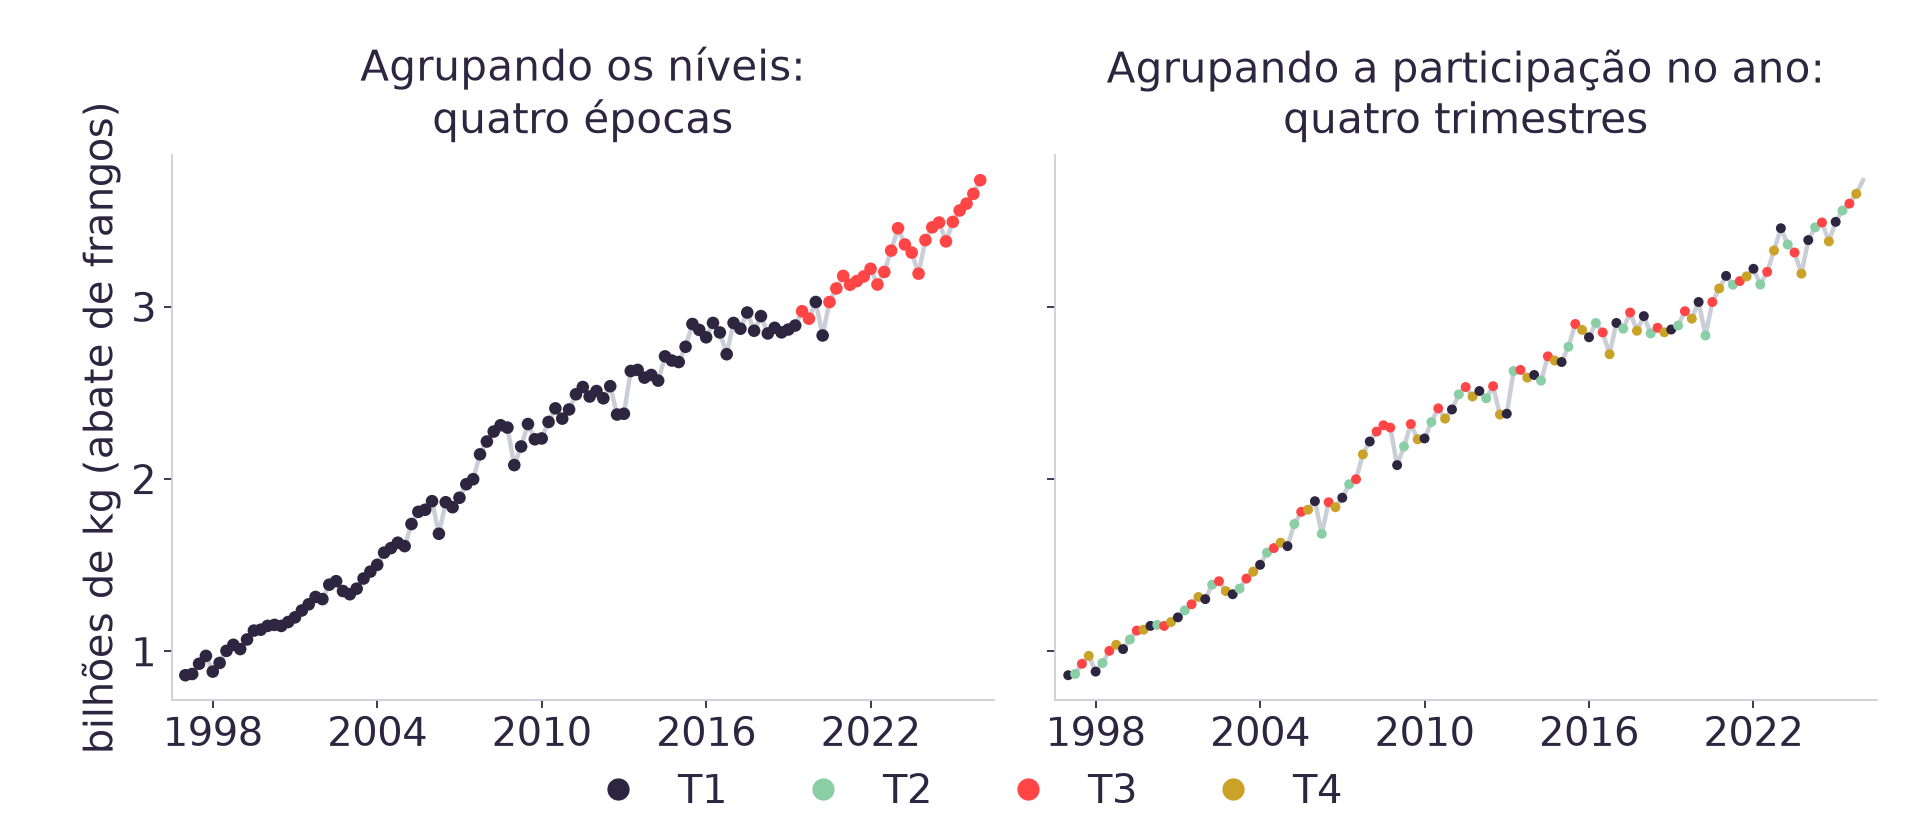
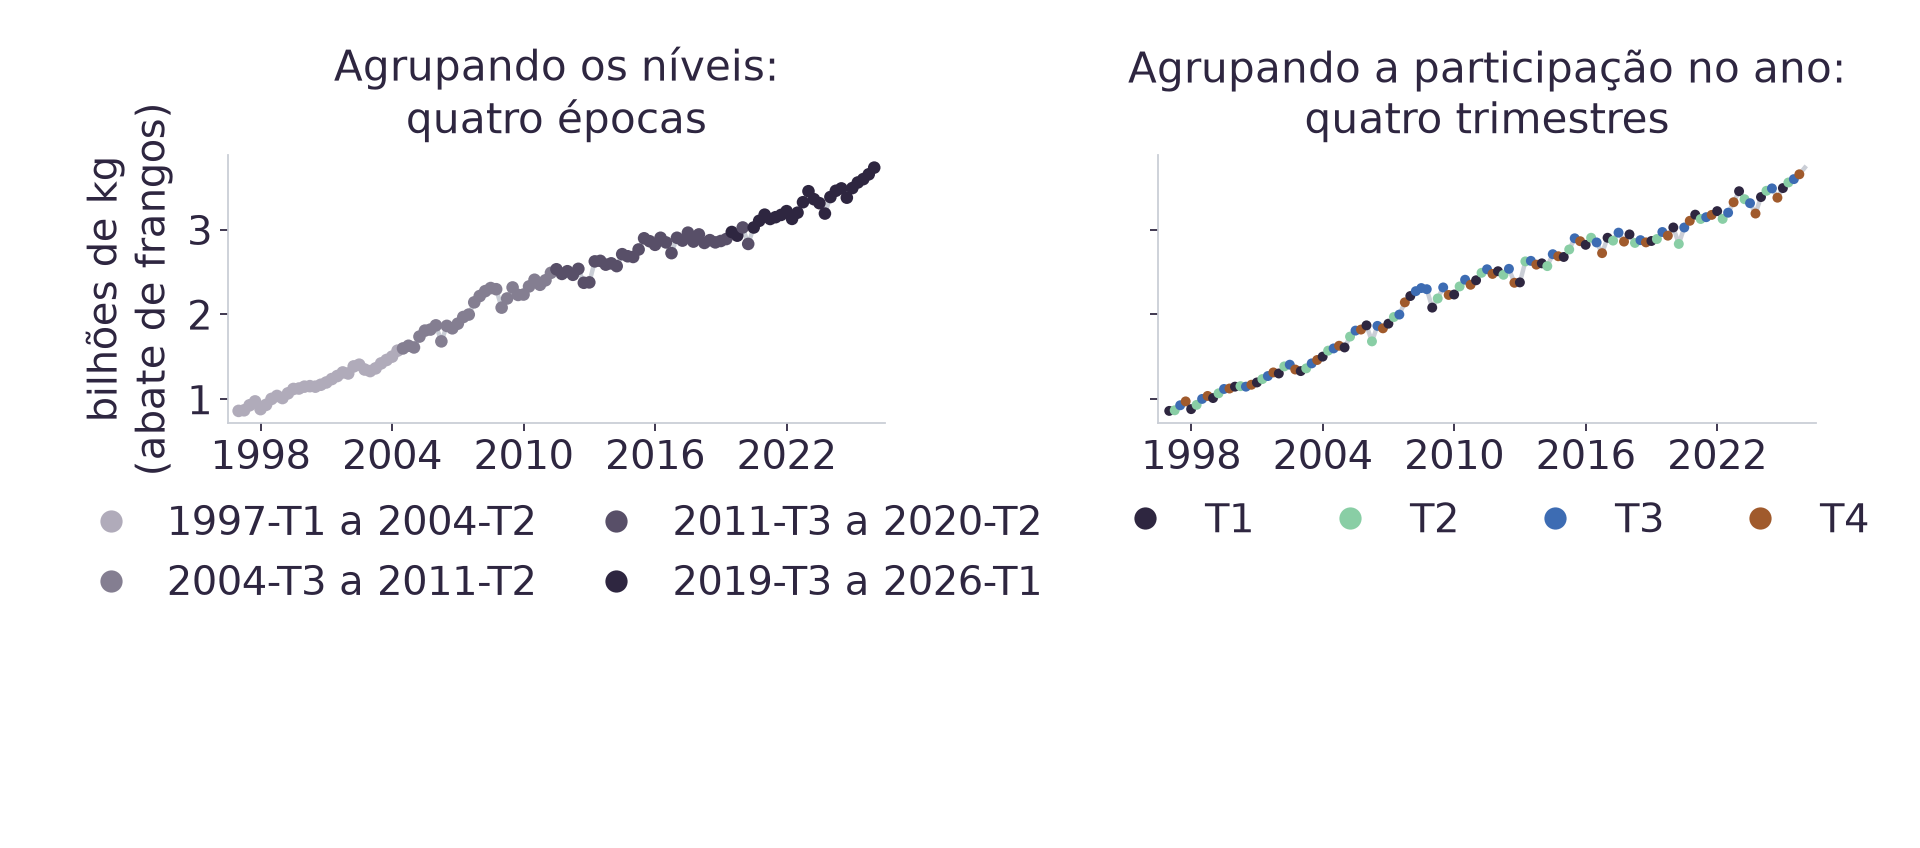
fix(aula06): corrige codificacao visual das figuras (fix round 1/5)
Painel esquerdo da Figura 1 passa a colorir os clusters do ato 1 por
ordem temporal (rampa sequencial de roxo) em vez do trimestre
majoritario: o ato 1 nao recupera o trimestre (26,5% de concordancia),
entao rotular seus clusters como T1-T4 contradizia o proprio achado da
aula. Os dois paineis agora tem legenda propria.

Figura 2 passa a plotar o desvio em relacao a 25% (pontos percentuais)
em vez do nivel bruto, o que faz a amplitude sazonal do leite (a maior
barra positiva e a maior negativa do grafico) e o achatamento do
frango aparecerem; antes, as cinco series ficavam visualmente
identicas entre 23% e 27%.

Paleta categorica dos quatro trimestres trocada para nao usar coral
como cor comum (T3 agora e azul, T4 terracota): coral fica reservado
so para o destaque da barra do T4 do leite nas duas figuras. Paletas
literais documentadas no cabecalho do modulo com a checagem de
contraste e de daltonismo do validador da skill dataviz, no mesmo
formato que tools/graficos_aula05.py ja usa.

diff --git a/tools/graficos_aula06.py b/tools/graficos_aula06.py
@@ -5,20 +5,34 @@ contraste entre agrupar niveis e agrupar participacao no ano:
 
 1. `aula06-epocas-vs-trimestres.png`. Dois paineis lado a lado sobre o mesmo
    eixo de tempo (1997-T1 a 2026-T1), com `abate_frangos` ao fundo em cinza
-   claro nos dois. No painel esquerdo, o ato 1: agrupar os niveis padronizados
-   das cinco series com K=4 devolve quatro epocas contiguas no tempo (silhueta
-   0,4795, concordancia de 26,5% com o trimestre do calendario, proxima do
-   acaso de 25%). No painel direito, o ato 2: agrupar a participacao de cada
-   trimestre no total do proprio ano, tambem com K=4, devolve o trimestre do
-   calendario (silhueta 0,2853, concordancia de 98,3%, com 2008-T2 e 2008-T4
-   como as duas excecoes). E a figura que sustenta o achado central da aula: a
-   silhueta premia o agrupamento menos util.
+   claro nos dois, cada um com a sua propria legenda porque os dois agrupam
+   coisas diferentes:
+   - Esquerda, o ato 1: agrupar os niveis padronizados das cinco series com
+     K=4 devolve quatro epocas contiguas no tempo (silhueta 0,4795,
+     concordancia de apenas 26,5% com o trimestre do calendario, proxima do
+     acaso de 25%). Os clusters do ato 1 NAO sao trimestres -- e o proprio
+     achado da aula --, entao a cor aqui nao pode usar rotulo T1 a T4: usa uma
+     rampa sequencial de roxo (claro para escuro, uma epoca por degrau) e uma
+     legenda com os quatro intervalos de tempo.
+   - Direita, o ato 2: agrupar a participacao de cada trimestre no total do
+     proprio ano, tambem com K=4, devolve o trimestre do calendario (silhueta
+     0,2853, concordancia de 98,3%, com 2008-T2 e 2008-T4 como as duas
+     excecoes). Aqui a cor E o trimestre, entao usa quatro matizes categoricas
+     com legenda T1 a T4.
+   E a figura que sustenta o achado central da aula: a silhueta premia o
+   agrupamento menos util. A escolha de rampa monocromatica a esquerda contra
+   matizes categoricas a direita tambem comunica sozinha que um agrupamento e
+   ordenado no tempo e o outro nao.
 
-2. `aula06-perfil-sazonal.png`. O perfil sazonal medio das cinco series (a
-   participacao media de cada trimestre no total do ano), em barras agrupadas.
-   Sustenta o achado complementar: leite tem pico no T4 enquanto as tres
-   carnes tem pico no T3, e a amplitude sazonal do leite (3,85 p.p.) e mais
-   que o triplo da do frango (1,10 p.p.).
+2. `aula06-perfil-sazonal.png`. O desvio da participacao media de cada
+   trimestre em relacao aos 25% que um trimestre sem sazonalidade nenhuma
+   teria, em pontos percentuais, por serie. Sustenta o achado complementar:
+   leite tem pico no T4 enquanto as tres carnes tem pico no T3, e a amplitude
+   sazonal do leite (3,85 p.p.) e mais que o triplo da do frango (1,10 p.p.).
+   Plotar o desvio em vez do nivel bruto (que fica todo entre 23% e 27%, com
+   as cinco series quase identicas a olho nu) e o que faz esse achado
+   aparecer: com o desvio, o leite passa a ter a barra mais alta e a mais
+   baixa do grafico, e o frango fica visivelmente achatado perto de zero.
 
 Decisoes de forma, herdadas de `tools/graficos_aula05.py`:
 
@@ -47,6 +61,45 @@ conectando os marcadores entre si: a serie cinza fornece o contexto de nivel,
 a cor do marcador fornece o cluster, e nenhuma linha grossa precisa percorrer
 116 trocas de cor. E o mesmo principio do painel esquerdo, so que com marcador
 menor, porque a troca de cor e mais frequente.
+
+Paletas usadas e a checagem de contraste/daltonismo, no mesmo formato que
+`tools/graficos_aula05.py` documenta para a paleta dele.
+
+Paleta categorica dos quatro trimestres (T1 a T4), usada no painel direito da
+Figura 1 e nos quatro grupos de barra da Figura 2: roxo #2e2640 (T1, a mesma
+tinta do resto do acervo), verde #89cea5 (T2, a mesma terceira serie da Aula
+05), azul #3d6cb3 (T3) e terracota #a05a2c (T4). Coral #ff4545 fica de fora
+dessa paleta de proposito: ele marca so a barra do T4 do leite na Figura 2,
+nunca uma categoria comum, porque usa-lo como uma entre quatro cores
+equivalentes faria a barra destacada colar visualmente na vizinha da mesma cor
+e o destaque desapareceria (foi exatamente o defeito da primeira versao desta
+figura, corrigido nesta rodada). Submetida ao validador de paletas categoricas
+da skill `dataviz` (`node scripts/validate_palette.js
+"#2e2640,#89cea5,#3d6cb3,#a05a2c" --mode light --surface "#ffffff" --pairs
+all`), a paleta separa bem sob daltonismo considerando TODOS os pares, nao so
+os adjacentes: o pior par mede dE 20,2 sob protanopia (acima do minimo de 8) e
+dE 22,7 sob visao normal (acima do minimo de 15). O validador tambem reprova
+dois testes pensados para paletas totalmente livres (faixa de luminosidade e
+piso de croma), porque #2e2640 e #89cea5 sao cores fixas do brandbook, nao
+escolhas livres desta figura -- a mesma reprovacao aconteceria com a paleta de
+tres cores ja publicada em `tools/graficos_aula05.py`, que usa as mesmas duas
+cores e nunca foi cobrada por isso. O aviso que sobra, esse sim real: #89cea5
+mede 1,84:1 de contraste contra o fundo branco, abaixo do minimo de 3:1 (o
+mesmo numero que a Aula 05 ja documentou para a mesma cor), e por isso nenhuma
+figura aqui depende so da cor do trimestre -- toda barra e todo marcador tem a
+identidade reforcada por rotulo direto (legenda T1 a T4, nome da serie no
+eixo, ou intervalo de datas).
+
+Rampa sequencial usada no painel esquerdo da Figura 1, uma unica matiz de roxo
+do claro ao escuro (`#b0abba, #847e91, #584f68, #2e2640`, essa ultima a mesma
+tinta oficial): passa nos quatro testes do validador em modo ordinal
+(`--ordinal`) -- luminosidade monotona, degrau minimo de 0,06 entre vizinhos,
+2,24:1 de contraste no degrau mais claro (acima do piso de 2:1) e variacao de
+matiz de so 4 graus. Por variar so em luminosidade dentro de uma unica matiz,
+essa rampa nao depende de discriminacao de cor para ser lida e e segura sob
+qualquer forma de daltonismo por construcao. E por isso que o painel esquerdo
+usa rampa e nao quatro matizes categoricas: a propria forma da paleta ja diz
+que ali o que importa e a ordem no tempo, nao a identidade de uma categoria.
 
 Uso: python3 tools/graficos_aula06.py   (requer matplotlib, pandas,
 numpy, scikit-learn)
@@ -79,13 +132,18 @@ ROTULO_SERIE = {
     "producao_leite": "produção de\nleite",
 }
 ALVO = "abate_frangos"
+I_LEITE = SERIES.index("producao_leite")
 K = 4
 SEMENTE = 42
 
-# paleta categorica dos quatro clusters, na ordem do trimestre majoritario
-# de cada um (1, 2, 3, 4). Reaproveita tinta, destaque e apoio da Aula 05 mais
-# um quarto tom (dourado) que nao colide com nenhum dos tres sob deuteranopia.
-COR_TRIMESTRE = {1: TINTA, 2: APOIO, 3: DESTAQUE, 4: "#c9a227"}
+# paleta categorica dos quatro trimestres do calendario (ato 2 e Figura 2).
+# Coral fica de fora de proposito: ver docstring do modulo.
+COR_TRIMESTRE = {1: TINTA, 2: APOIO, 3: "#3d6cb3", 4: "#a05a2c"}
+
+# rampa sequencial (claro -> escuro) para os quatro clusters do ato 1, que NAO
+# tem identidade de trimestre: a ordem e temporal, do cluster mais antigo ao
+# mais recente. Ver docstring do modulo para a validacao desta rampa.
+RAMPA_EPOCA = ["#b0abba", "#847e91", "#584f68", "#2e2640"]
 
 plt.rcParams.update({
     "font.size": 18,
@@ -117,14 +175,7 @@ def base_analitica():
 
 
 def kmeans_rotulos(matriz):
-    """Padroniza, agrupa com K=4 e devolve os rotulos alinhados ao trimestre.
-
-    Os rotulos brutos do KMeans nao tem ordem semantica (o cluster "0" pode
-    ser qualquer trimestre). Remapeia cada rotulo bruto para o trimestre do
-    calendario que domina esse cluster, so para dar cor consistente as duas
-    figuras: a metrica de concordancia usa a mesma regra de trimestre
-    majoritario, sem depender desse remapeamento.
-    """
+    """Padroniza e agrupa com K=4. Os rotulos brutos nao tem ordem semantica."""
     padronizada = StandardScaler().fit_transform(matriz)
     modelo = KMeans(n_clusters=K, n_init=50, random_state=SEMENTE).fit(padronizada)
     return modelo.labels_
@@ -140,12 +191,30 @@ def concordancia(rotulos, tris):
 
 
 def trimestre_majoritario(rotulos, tris):
-    """Mapa rotulo bruto -> trimestre do calendario que domina esse cluster."""
+    """Mapa rotulo bruto -> trimestre do calendario que domina esse cluster.
+
+    So faz sentido para o ato 2, onde a concordancia e alta (98,3%) e o
+    trimestre majoritario e de fato a identidade do cluster. Usar isso no ato
+    1 (concordancia de 26,5%, proxima do acaso) coloriria as epocas por ruido
+    e rotularia como trimestre algo que a aula prova que nao e.
+    """
     mapa = {}
     for c in set(rotulos):
         do_cluster = tris[rotulos == c]
         mapa[c] = max((1, 2, 3, 4), key=lambda t: (do_cluster == t).sum())
     return mapa
+
+
+def ordem_temporal(rotulos):
+    """Ordena os rotulos brutos do ato 1 pela posicao media no tempo.
+
+    O ato 1 agrupa NIVEIS de uma serie crescente: a posicao media de cada
+    cluster ao longo do eixo de tempo e o proprio criterio de ordem, da epoca
+    mais antiga para a mais recente. E o que da sentido a rampa sequencial:
+    o cluster de indice 0 aqui e sempre o mais antigo, nao um rotulo
+    arbitrario do KMeans.
+    """
+    return sorted(set(rotulos), key=lambda c: np.mean(np.where(rotulos == c)[0]))
 
 
 def participacao_no_ano(base):
@@ -167,14 +236,24 @@ def participacao_no_ano(base):
 
 
 def epocas_vs_trimestres(base, destino):
-    """Figura 1: dois paineis, ato 1 (niveis) contra ato 2 (participacao)."""
+    """Figura 1: dois paineis, ato 1 (niveis) contra ato 2 (participacao).
+
+    Os dois paineis tem legenda propria: o esquerdo agrupa epocas sem
+    identidade de trimestre (rampa sequencial + intervalos de tempo), o
+    direito agrupa trimestres de verdade (cores categoricas + T1 a T4).
+    """
     bi = 1e9
     x = np.arange(len(base["periodos"]))
     frangos = base["X"][:, SERIES.index(ALVO)] / bi
 
     rotulos1 = kmeans_rotulos(base["X"])
-    mapa1 = trimestre_majoritario(rotulos1, base["tris"])
-    cores1 = [COR_TRIMESTRE[mapa1[r]] for r in rotulos1]
+    ordem1 = ordem_temporal(rotulos1)
+    cor_por_cluster1 = {c: RAMPA_EPOCA[i] for i, c in enumerate(ordem1)}
+    cores1 = [cor_por_cluster1[r] for r in rotulos1]
+    intervalos1 = []
+    for c in ordem1:
+        idx = np.where(rotulos1 == c)[0]
+        intervalos1.append("%s a %s" % (base["periodos"][idx.min()], base["periodos"][idx.max()]))
 
     X2, anos2, tris2, periodos2 = participacao_no_ano(base)
     rotulos2 = kmeans_rotulos(X2)
@@ -182,7 +261,7 @@ def epocas_vs_trimestres(base, destino):
     idx2 = [base["periodos"].index(p) for p in periodos2]
     cores2 = [COR_TRIMESTRE[mapa2[r]] for r in rotulos2]
 
-    fig, (esq, dire) = plt.subplots(1, 2, figsize=(12, 5.2), sharey=True)
+    fig, (esq, dire) = plt.subplots(1, 2, figsize=(12, 5.3), sharey=True)
 
     for eixo in (esq, dire):
         eixo.plot(x, frangos, color=SUAVE, linewidth=2, zorder=1)
@@ -191,7 +270,7 @@ def epocas_vs_trimestres(base, destino):
 
     esq.scatter(x, frangos, c=cores1, s=32, zorder=2, linewidths=0)
     esq.set_title("Agrupando os níveis:\nquatro épocas", fontsize=19, pad=10)
-    esq.set_ylabel("bilhões de kg (abate de frangos)", fontsize=18)
+    esq.set_ylabel("bilhões de kg\n(abate de frangos)", fontsize=18)
 
     # marcadores pequenos sobre a serie em cinza claro: com 116 trocas de cor
     # em 29 anos, uma linha ou marcador grosso conectando os pontos vira
@@ -209,53 +288,68 @@ def epocas_vs_trimestres(base, destino):
         eixo.set_xticklabels([base["periodos"][i][:4] for i in rotulos_x], fontsize=18)
         eixo.set_xlim(-2, len(base["periodos"]) + 1)
 
-    manejadores = [plt.Line2D([0], [0], marker="o", linestyle="", markersize=10,
-                               markerfacecolor=COR_TRIMESTRE[t], markeredgewidth=0,
-                               label="T%d" % t) for t in (1, 2, 3, 4)]
-    fig.legend(handles=manejadores, ncol=4, fontsize=18, frameon=False,
-               loc="lower center", bbox_to_anchor=(0.5, -0.02),
-               handletextpad=0.5, columnspacing=1.4)
+    manejadores_esq = [plt.Line2D([0], [0], marker="o", linestyle="", markersize=10,
+                                   markerfacecolor=RAMPA_EPOCA[i], markeredgewidth=0,
+                                   label=intervalos1[i]) for i in range(4)]
+    esq.legend(handles=manejadores_esq, loc="upper center", bbox_to_anchor=(0.5, -0.17),
+               ncol=2, fontsize=18, frameon=False, handletextpad=0.4,
+               columnspacing=1.0, labelspacing=0.5)
 
-    fig.tight_layout(rect=(0, 0.04, 1, 1))
+    manejadores_dire = [plt.Line2D([0], [0], marker="o", linestyle="", markersize=10,
+                                    markerfacecolor=COR_TRIMESTRE[t], markeredgewidth=0,
+                                    label="T%d" % t) for t in (1, 2, 3, 4)]
+    dire.legend(handles=manejadores_dire, loc="upper center", bbox_to_anchor=(0.5, -0.16),
+                ncol=4, fontsize=18, frameon=False, handletextpad=0.5, columnspacing=1.4)
+
+    fig.tight_layout(rect=(0, 0.14, 1, 1))
     fig.savefig(destino, dpi=160, facecolor=FUNDO)
     plt.close(fig)
     return rotulos1, rotulos2, tris2, periodos2
 
 
 def perfil_sazonal(base, destino):
-    """Figura 2: participacao media de cada trimestre, por serie, em barras."""
+    """Figura 2: desvio da participacao de cada trimestre em relacao a 25%.
+
+    25% e a participacao que um trimestre teria se a serie nao tivesse
+    sazonalidade nenhuma (um quarto do ano, igual para os quatro). Plotar o
+    desvio em vez do nivel bruto reexpressa os dados em torno dessa mesma
+    linha de base (nao e truncar eixo: a linha de 25% ja estava desenhada na
+    primeira versao da figura) e e o que faz a diferenca de amplitude entre
+    leite e frango aparecer: em nivel bruto as cinco series ficam todas entre
+    23% e 27%, visualmente identicas.
+    """
     X, anos, tris, _ = participacao_no_ano(base)
     medias = np.array([X[tris == t].mean(axis=0) for t in (1, 2, 3, 4)]) * 100
+    desvio = medias - 25.0
 
-    fig, eixo = plt.subplots(figsize=(12, 5.4))
+    fig, eixo = plt.subplots(figsize=(12, 5.6))
     largura = 0.19
     posicoes_serie = np.arange(len(SERIES))
-    # T3 e T4 aqui NAO usam a cor de destaque (coral): ela fica reservada para
-    # marcar so a barra do T4 do leite. Se o T3 (ou o T4 das outras series)
-    # usasse coral, a barra destacada colaria visualmente na vizinha da mesma
-    # cor e o destaque desapareceria.
-    cores_tri = [TINTA, APOIO, "#8b8394", "#c9a227"]
+    # T1-T4 usam a paleta categorica de trimestre (sem coral: ver docstring do
+    # modulo). Coral marca so a barra do T4 do leite.
+    cores_tri = [COR_TRIMESTRE[t] for t in (1, 2, 3, 4)]
 
     for i, t in enumerate((1, 2, 3, 4)):
         deslocamento = (i - 1.5) * largura
         cores_barra = list(cores_tri[i] for _ in SERIES)
-        i_leite = SERIES.index("producao_leite")
         if t == 4:
-            cores_barra[i_leite] = DESTAQUE
-        eixo.bar(posicoes_serie + deslocamento, medias[i], width=largura,
+            cores_barra[I_LEITE] = DESTAQUE
+        eixo.bar(posicoes_serie + deslocamento, desvio[i], width=largura,
                  color=cores_barra, label="T%d" % t, zorder=2)
 
-    eixo.axhline(25.0, color=TINTA, linewidth=1.6, linestyle="--", zorder=1)
-    eixo.text(len(SERIES) - 0.55, 25.6, "25%: trimestre sem sazonalidade",
-              fontsize=18, color=TINTA, ha="right", va="bottom", zorder=3,
+    eixo.axhline(0.0, color=TINTA, linewidth=1.6, zorder=1)
+    eixo.text(len(SERIES) - 0.55, desvio.max() + 0.35,
+              "0 p.p.: trimestre sem sazonalidade", fontsize=18, color=TINTA,
+              ha="right", va="bottom", zorder=3,
               bbox={"facecolor": FUNDO, "edgecolor": "none", "pad": 2})
 
     eixo.set_xticks(posicoes_serie)
     eixo.set_xticklabels([ROTULO_SERIE[s] for s in SERIES], fontsize=18)
-    eixo.set_ylabel("participação média no ano (%)", fontsize=18)
+    eixo.set_ylabel("desvio em relação a 25%\n(pontos percentuais)", fontsize=18)
     eixo.spines[["top", "right"]].set_visible(False)
     eixo.tick_params(labelsize=18)
-    eixo.set_ylim(0, 32)
+    limite = max(abs(desvio.min()), abs(desvio.max())) + 0.9
+    eixo.set_ylim(-limite, limite)
 
     manejadores = [plt.Rectangle((0, 0), 1, 1, color=cores_tri[i]) for i in range(4)]
     eixo.legend(manejadores, ["T1", "T2", "T3", "T4"], fontsize=18, frameon=False,
@@ -264,7 +358,7 @@ def perfil_sazonal(base, destino):
     fig.tight_layout()
     fig.savefig(destino, dpi=160, facecolor=FUNDO)
     plt.close(fig)
-    return medias
+    return medias, desvio
 
 
 def main():
@@ -273,7 +367,7 @@ def main():
 
     rotulos1, rotulos2, tris2, periodos2 = epocas_vs_trimestres(
         base, os.path.join(saida, "aula06-epocas-vs-trimestres.png"))
-    medias = perfil_sazonal(base, os.path.join(saida, "aula06-perfil-sazonal.png"))
+    medias, desvio = perfil_sazonal(base, os.path.join(saida, "aula06-perfil-sazonal.png"))
 
     print("base (ato 1): %d linhas, %s a %s"
           % (len(base["periodos"]), base["periodos"][0], base["periodos"][-1]))
@@ -294,14 +388,24 @@ def main():
     fora = [p for p, r, t in zip(periodos2, rotulos2, tris2) if mapa2[r] != t]
     print("exceções do ato 2: %s" % fora)
 
-    i_leite = SERIES.index("producao_leite")
+    ordem1 = ordem_temporal(rotulos1)
+    for i, c in enumerate(ordem1):
+        idx = np.where(rotulos1 == c)[0]
+        print("época %d: %s a %s" % (i + 1, base["periodos"][idx.min()], base["periodos"][idx.max()]))
+
     i_frango = SERIES.index("abate_frangos")
-    amplitude_leite = medias[:, i_leite].max() - medias[:, i_leite].min()
+    amplitude_leite = medias[:, I_LEITE].max() - medias[:, I_LEITE].min()
     amplitude_frango = medias[:, i_frango].max() - medias[:, i_frango].min()
-    print("pico do leite: T%d (%.2f%%)" % (int(np.argmax(medias[:, i_leite])) + 1,
-                                            medias[:, i_leite].max()))
+    print("pico do leite: T%d (%.2f%%)" % (int(np.argmax(medias[:, I_LEITE])) + 1,
+                                            medias[:, I_LEITE].max()))
     print("amplitude leite %.2f p.p., amplitude frango %.2f p.p."
           % (amplitude_leite, amplitude_frango))
+
+    print("desvio em relação a 25% (p.p.):")
+    for i, t in enumerate((1, 2, 3, 4)):
+        print("  T%d: %s" % (t, ", ".join(
+            "%s %+.2f" % (s, desvio[i, j]) for j, s in enumerate(SERIES))))
+
     print("figuras gravadas em assets/img/")
 
 
